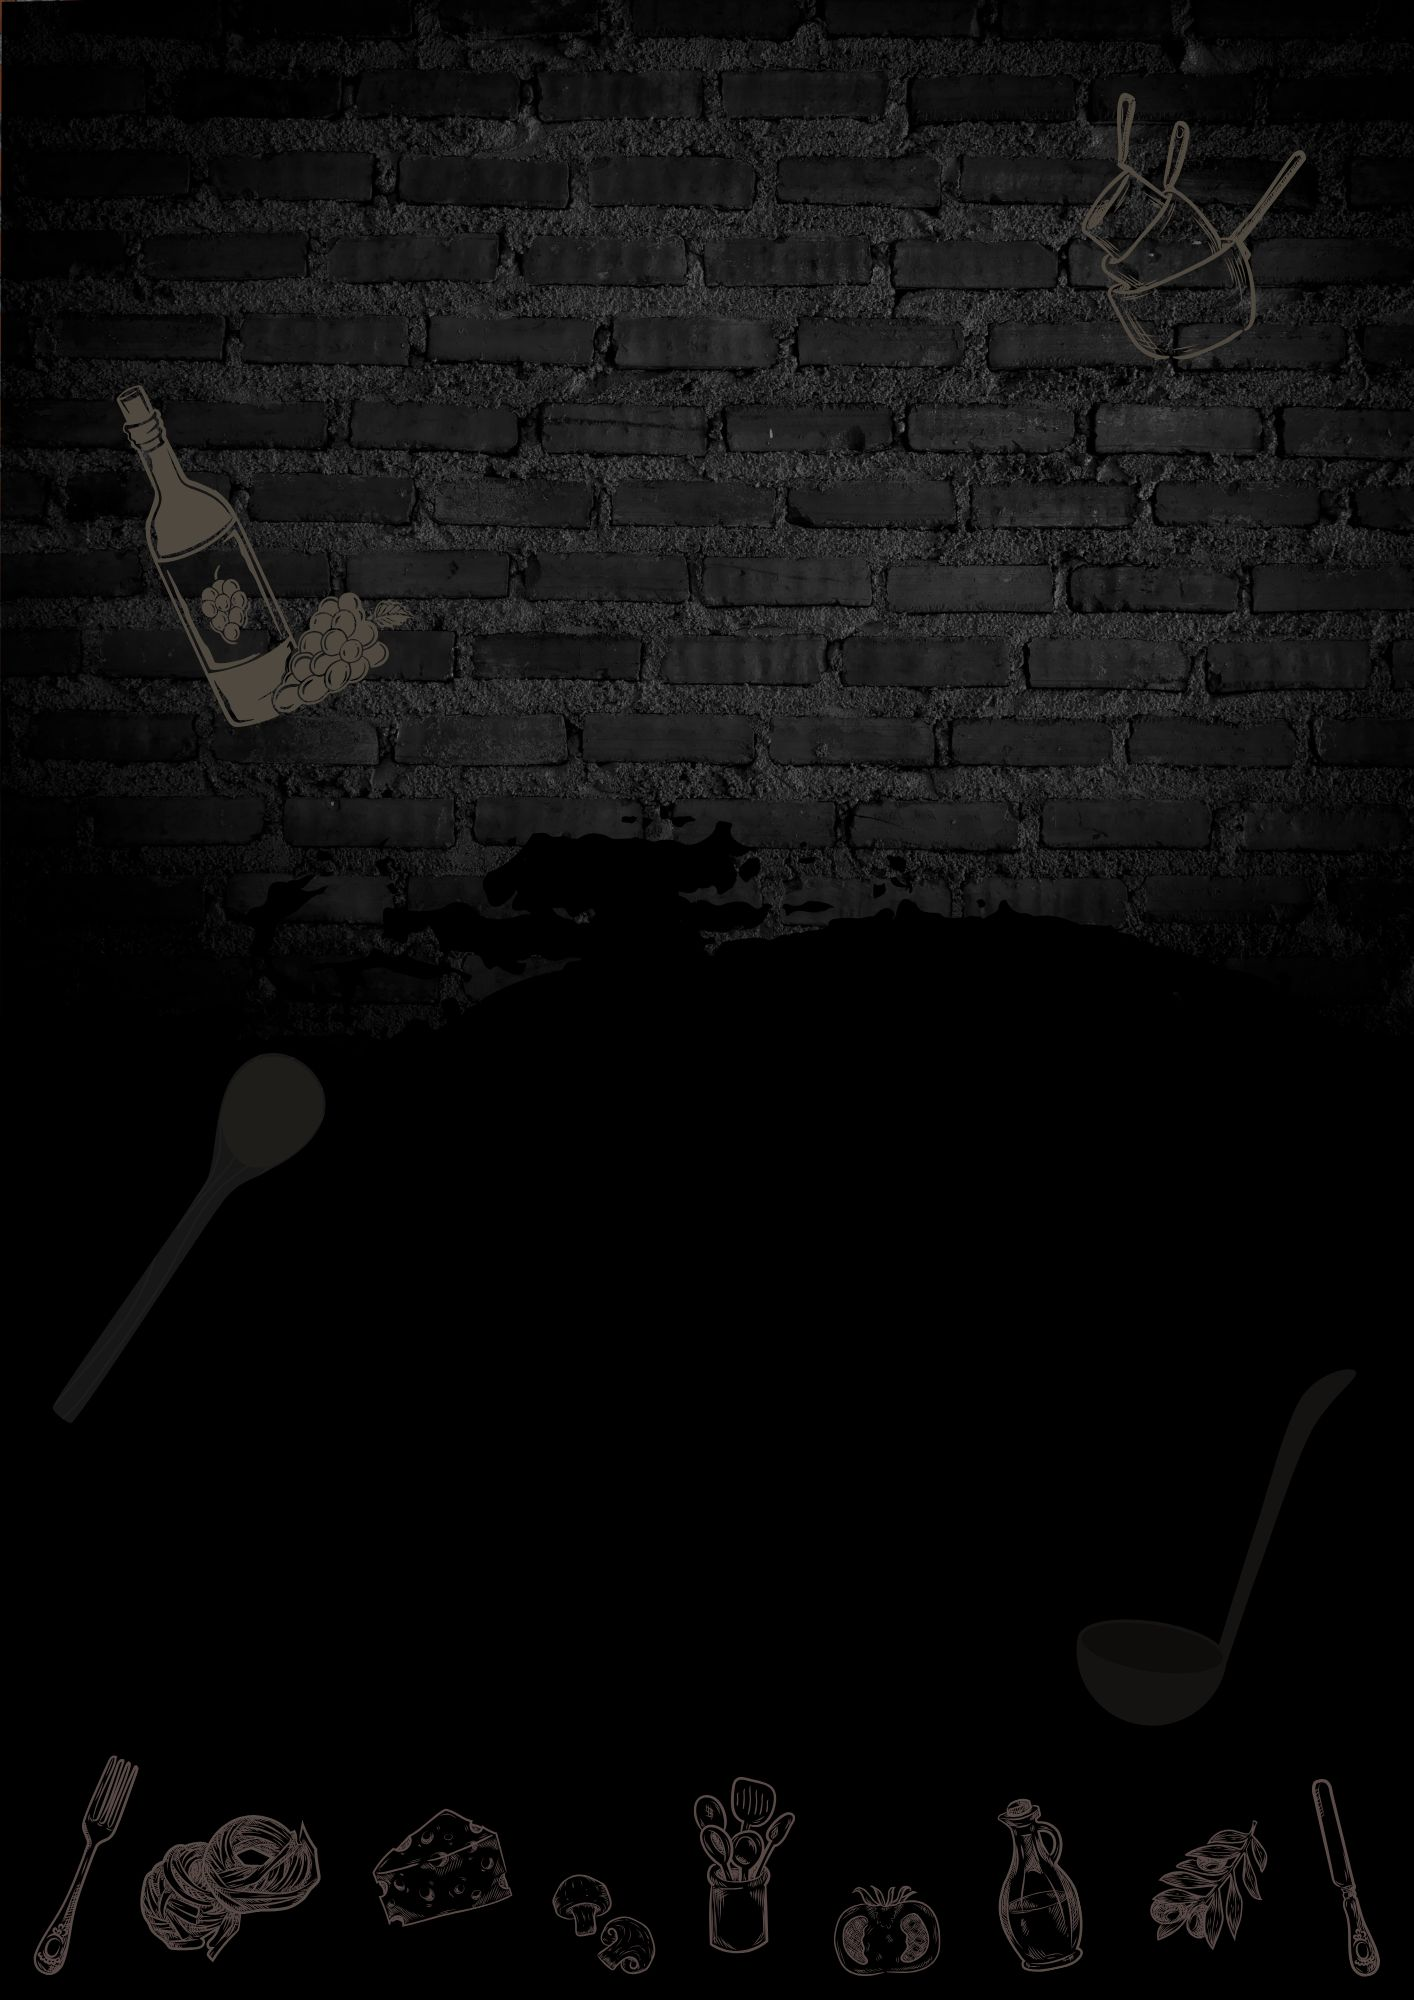
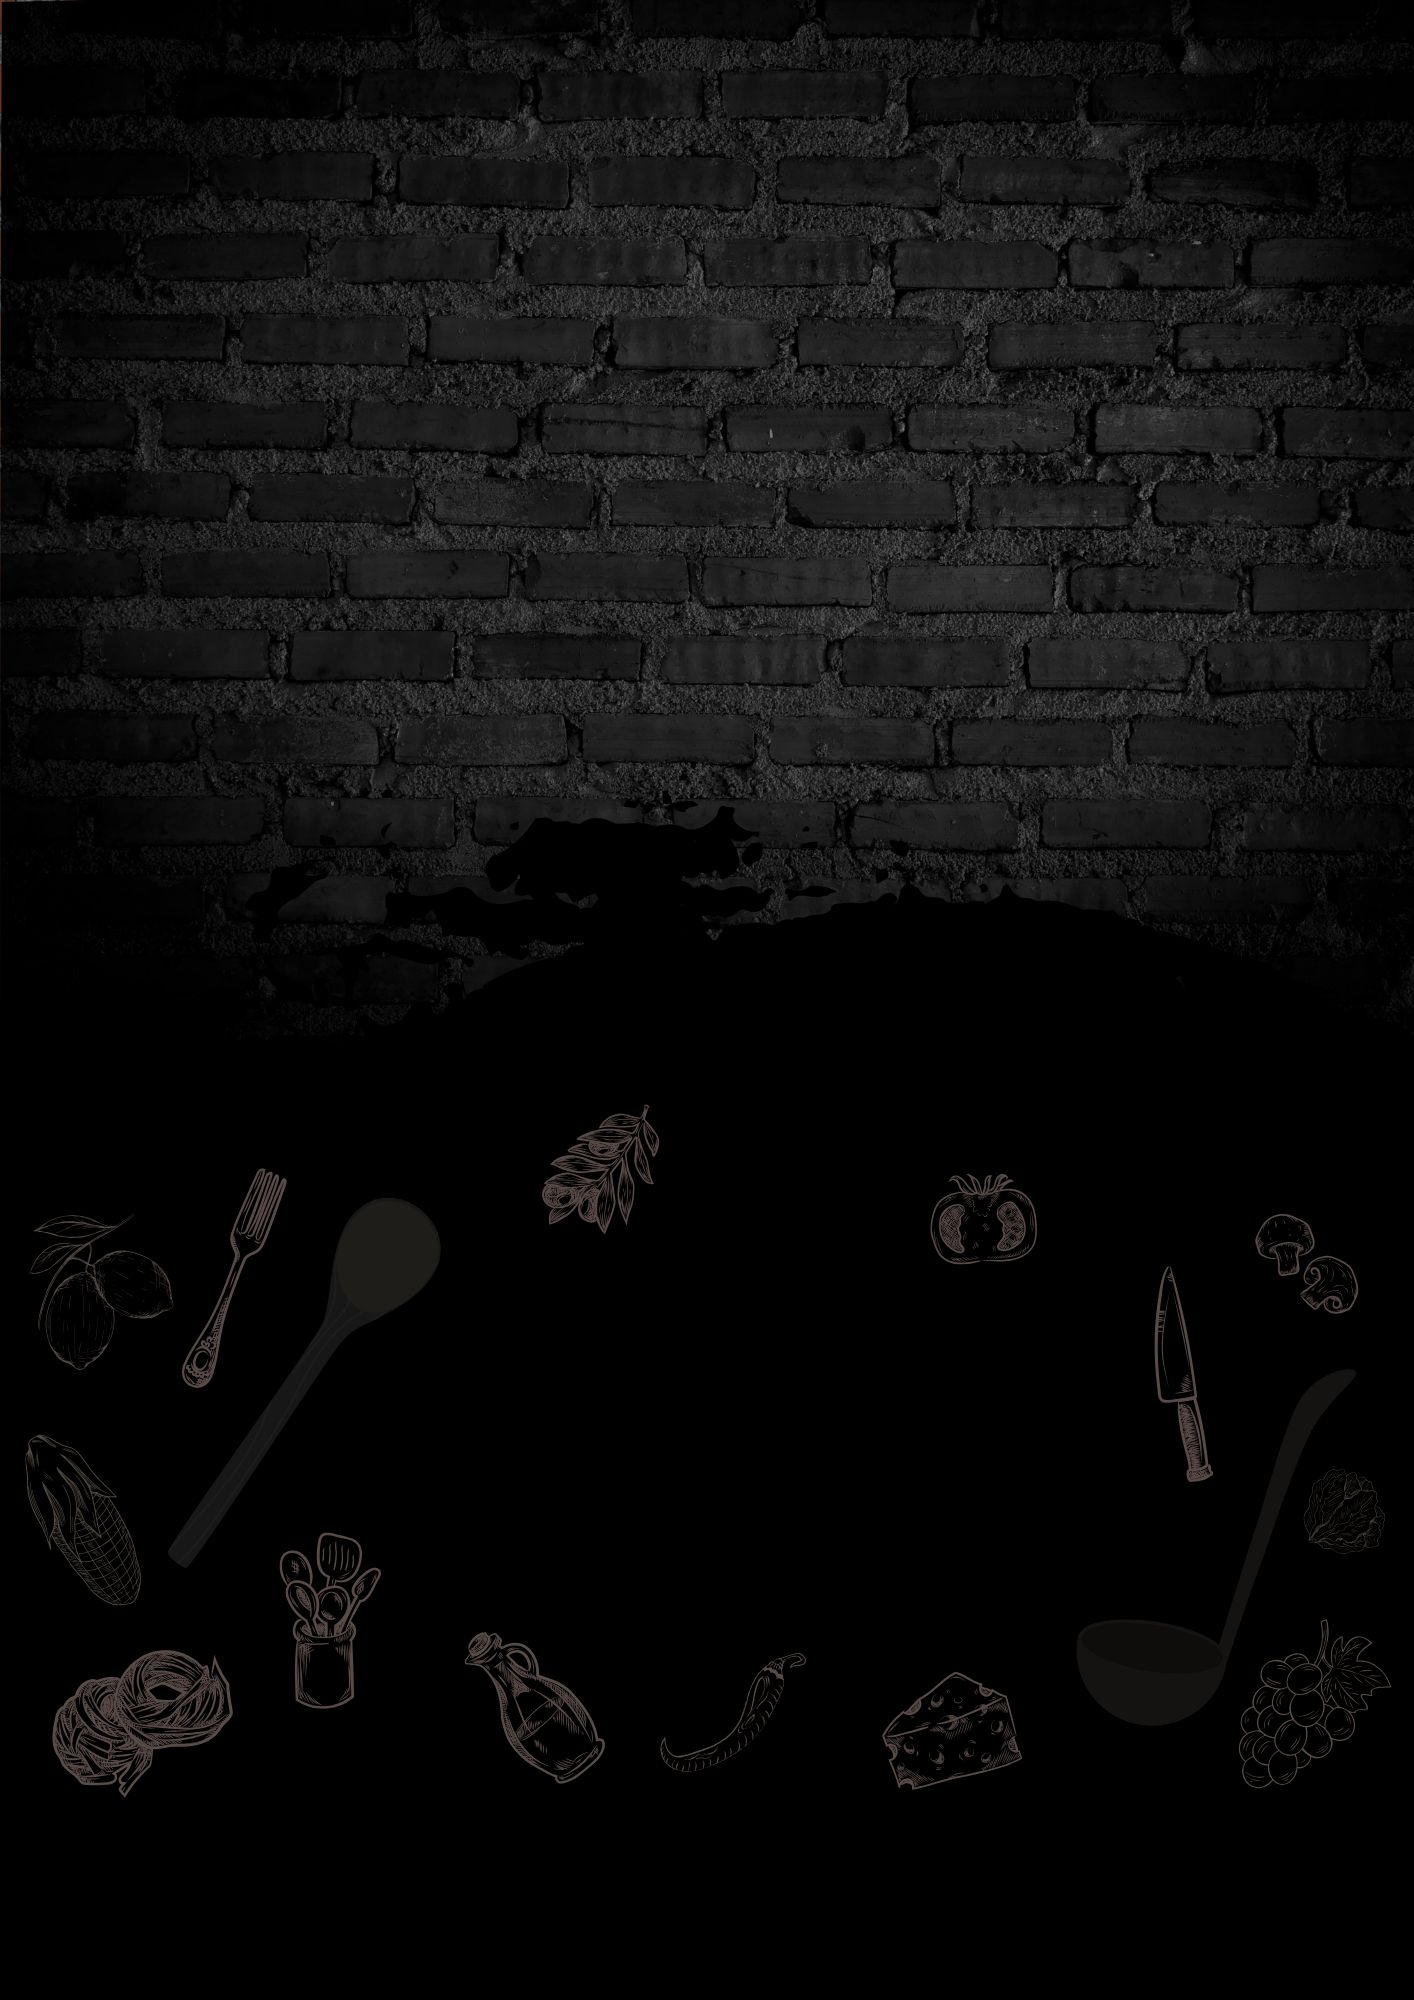
Add files via upload

diff --git a/productos.html b/productos.html
@@ -1,0 +1,154 @@
+<!doctype html>
+<html lang="en">
+  <head>
+    <meta charset="UTF-8" />
+
+    <link rel="stylesheet" href="estilos.css">
+/*teko*/
+    <link rel="preconnect" href="https://fonts.googleapis.com">
+    <link rel="preconnect" href="https://fonts.gstatic.com" crossorigin>
+    <link href="https://fonts.googleapis.com/css2?family=Quantico:ital,wght@0,400;0,700;1,400;1,700&family=Science+Gothic:wght@100..900&family=Teko:wght@300..700&display=swap" rel="stylesheet">
+/*Nunito Sans*/
+    <link rel="preconnect" href="https://fonts.googleapis.com">
+    <link rel="preconnect" href="https://fonts.gstatic.com" crossorigin>
+    <link href="https://fonts.googleapis.com/css2?family=Nunito+Sans:ital,opsz,wght@0,6..12,200..1000;1,6..12,200..1000&family=Quantico:ital,wght@0,400;0,700;1,400;1,700&family=Science+Gothic:wght@100..900&family=Teko:wght@300..700&display=swap" rel="stylesheet">
+    
+    <meta name="viewport" content="width=device-width, initial-scale=1.0" />
+      <link rel="icon" href="public/iconoBarra.png" type="image/png">
+    <title>Sabores de la Tierra</title>
+  </head>
+  <body class="productos">
+    <div id="root"></div>
+    <script type="module" src="/src/main.jsx"></script>
+
+        <nav class="navbar">
+
+    <div class="logo">
+      <img src="public/iconoBarra.png" alt="Logo">
+    </div>
+
+    <!--navegador-->
+    <ul class="nav-links">
+      <li><a href="index.html">INICIO</a></li>
+      <li><a href="productos.html">PRODUCTOS</a></li>
+      <li><a href="contacto.html">CONTACTO</a></li>
+      
+    </ul>
+  </nav>
+<main>
+<!--------------- menu---------------------->
+  <section class="menu">
+
+
+    <h2><u>Especiales de la Casa</u></h2>
+    <div class="cards">
+      <div class="card">
+        <img src="public/asado.jpg" alt="Asado de tira">
+        <h3>Asado de Tira</h3>
+        <p>Corte argentino a la parrilla con chimichurri.</p>
+        <span class="precio"><em>$45.000</em></span>
+      </div>
+      <div class="card">
+        <img src="public/cordero.jpg" alt="Cordero patagónico">
+        <h3>Cordero Patagónico</h3>
+        <p>Cocción lenta al horno de barro con vegetales.</p>
+        <span class="precio"><em>$35.000</em></span>
+      </div>
+    </div>
+
+
+    <h2><u>Comidas</u></h2>
+    <div class="cards">
+      <div class="card">
+        <img src="public/empanadas.jpg" alt="Empanadas criollas">
+        <h3>Empanadas Criollas</h3>
+        <p>Rellenas de carne cortada a cuchillo y especias.</p>
+        <span class="precio"><em>$1.200 c/u</em></span>
+      </div>
+      <div class="card">
+        <img src="public/milanesa.jpg" alt="Milanesa con puré">
+        <h3>Milanesa con Puré</h3>
+        <p>Clásica de ternera, crocante y abundante.</p>
+        <span class="precio"><em>$23.200</em></span>
+      </div>
+      <div class="card">
+        <img src="public/trucha.jpg" alt="Trucha grillada">
+        <h3>Trucha Grillada</h3>
+        <p>Con hierbas frescas y ensalada de estación.</p>
+        <span class="precio"><em>$12.500</em></span>
+      </div>
+      <div class="card">
+        <img src="public/locro.jpg" alt="Locro">
+        <h3>Locro tradicional</h3>
+        <p>Guiso de maíz, zapallo y carnes, ideal para días festivos.</p>
+        <span class="precio"><em>$25.200</em></span>
+      </div>
+      <div class="card">
+        <img src="public/provoleta.jpg" alt="Provoleta">
+        <h3>Provoleta a la parrilla</h3>
+        <p>Delicioso queso fundido con orégano y tomate seco.</p>
+        <span class="precio"><em>$13.500</em></span>
+      </div>
+      <div class="card">
+        <img src="public/guiso.jpg" alt="Guiso">
+        <h3>Guiso de lentejas con chorizo colorado</h3>
+        <p>Contundente y lleno de sabor.</p>
+        <span class="precio"><em>$15.000</em></span>
+      </div>
+    </div>
+
+
+    <h2><u>Postres</u></h2>
+    <div class="cards">
+      <div class="card">
+        <img src="public/flan.jpg" alt="Flan casero">
+        <h3>Flan Casero</h3>
+        <p>Con dulce de leche artesanal.</p>
+        <span class="precio"><em>$9.200</em></span>
+      </div>
+      <div class="card">
+        <img src="public/chocotorta.jpg" alt="Chocotorta">
+        <h3>Chocotorta</h3>
+        <p>Postre argentino con galletas y crema.</p>
+        <span class="precio"><em>$8.500</em></span>
+      </div>
+      <div class="card">
+        <img src="public/helado.jpg" alt="Helado artesanal">
+        <h3>Helado Artesanal</h3>
+        <p>Sabores de la tierra, cremoso y fresco.</p>
+        <span class="precio"><em>$6.800</em></span>
+      </div>
+    </div>
+
+
+    <h2><u>Vinos</u></h2>
+    <div class="cards">
+      <div class="card">
+        <img src="public/vino2021.jpg" alt="Malbec2021">
+        <h3>Malbec 2021</h3>
+        <p>Altos Las Hormigas Malbec Paraje Altamira 2021.</p>
+        <span class="precio"><em>$73.900</em></span>
+      </div>
+      <div class="card">
+        <img src="public/vino2022.jpg" alt="Malbec2022">
+        <h3>Malbec 2022</h3>
+        <p>Zuccardi Finca Piedra Infinita Supercal Malbec 2022.</p>
+        <span class="precio"><em>$419.738</em></span>
+      </div>
+      <div class="card">
+        <img src="public/Elenemigo.jpg" alt="Elenemigo">
+        <h3>El Enemigo</h3>
+        <p>El Enemigo Gran Enemigo Single Vineyard 2021.</p>
+        <span class="precio"><em>$90.000</em></span>
+      </div>
+  </section>
+
+</main>
+
+<footer> 
+  <div class="abajo">
+    <p>© 2026 Sabores de la Tierra | Todos los derechos reservados</p>
+    <p>Bahía Blanca, Buenos Aires, Argentina</p></div>
+</footer>
+
+  </body>

diff --git a/contacto.html b/contacto.html
@@ -1,0 +1,104 @@
+<!doctype html>
+<html lang="en">
+  <head>
+    <meta charset="UTF-8" />
+    <link rel="stylesheet" href="estilos.css">
+/*teko*/
+    <link rel="preconnect" href="https://fonts.googleapis.com">
+    <link rel="preconnect" href="https://fonts.gstatic.com" crossorigin>
+    <link href="https://fonts.googleapis.com/css2?family=Quantico:ital,wght@0,400;0,700;1,400;1,700&family=Science+Gothic:wght@100..900&family=Teko:wght@300..700&display=swap" rel="stylesheet">
+/*Nunito Sans*/
+    <link rel="preconnect" href="https://fonts.googleapis.com">
+    <link rel="preconnect" href="https://fonts.gstatic.com" crossorigin>
+    <link href="https://fonts.googleapis.com/css2?family=Nunito+Sans:ital,opsz,wght@0,6..12,200..1000;1,6..12,200..1000&family=Quantico:ital,wght@0,400;0,700;1,400;1,700&family=Science+Gothic:wght@100..900&family=Teko:wght@300..700&display=swap" rel="stylesheet">
+    
+    <meta name="viewport" content="width=device-width, initial-scale=1.0" />
+      <link rel="icon" href="public/iconoBarra.png" type="image/png">
+    <title>Sabores de la Tierra</title>
+  </head>
+  <body class="contacto">
+    <div id="root"></div>
+    <script type="module" src="/src/main.jsx"></script>
+
+        <nav class="navbar">
+
+    <div class="logo">
+      <img src="public/iconoBarra.png" alt="Logo">
+    </div>
+
+    <!--navegador-->
+    <ul class="nav-links">
+      <li><a href="index.html">INICIO</a></li>
+      <li><a href="productos.html">PRODUCTOS</a></li>
+      <li><a href="contacto.html">CONTACTO</a></li>
+      <li class="historia"><a href="#historia">NUESTRA HISTORIA</a></li>
+      
+    </ul>
+  </nav>
+
+<main>
+  <!-- parte de abajo-->
+<article>
+    <div id="historia" class="carousel">
+  <h2>Nuestra Historia</h2>
+  
+  <div class="slide active">
+    <p>“Sabores de la Tierra” nació de un sueño sencillo: 
+      recuperar la esencia de las comidas compartidas en torno al fuego. 
+      Todo comenzó en una antigua casona de madera, donde las reuniones 
+      familiares se llenaban de aromas intensos, vinos generosos y carnes 
+      condimentadas con esmero.</p>
+  </div>
+  <div class="slide">
+    <p>Lo que empezó como encuentros entre amigos se transformó en un 
+      proyecto más grande: abrir las puertas de un lugar donde cada visitante 
+      pudiera sentir la calidez de lo rústico y la fuerza de lo auténtico. 
+      Inspirados por la tradición y el respeto a los sabores de nuestra tierra, 
+      levantamos un espacio que honra lo natural, lo artesanal y lo verdadero.</p>
+  </div>
+  <div class="slide">
+    <p>Hoy, cada plato que servimos cuenta esa historia: la de un origen humilde, 
+      una pasión por la cocina y un compromiso con ofrecer experiencias que nacen 
+      de la tierra y se disfrutan en el alma.</p>
+  </div>
+
+  <!-- botones para cambiar img-->
+  
+  <button class="prev">◀︎</button><button class="next">▶︎</button>
+</div>
+<script>
+  const slides = document.querySelectorAll(".slide"); //busca todos los slide y los guarda en una constante
+  let currentIndex = 0; //empi9eza por la primer dispositiva
+
+  function showSlide(index) {
+    slides.forEach((slide, i) => { //recorre las dispositivas
+      slide.classList.toggle("active", i === index);
+    });
+  }
+
+  document.querySelector(".next").addEventListener("click", () => { //boton
+    currentIndex = (currentIndex + 1) % slides.length;
+    showSlide(currentIndex);
+  });
+
+  document.querySelector(".prev").addEventListener("click", () => { //boton
+    currentIndex = (currentIndex - 1 + slides.length) % slides.length;
+    showSlide(currentIndex);
+  });
+
+ 
+  setInterval(() => { 
+    currentIndex = (currentIndex + 1) % slides.length;
+    showSlide(currentIndex);
+  }, 8000);// Cambio automatico cada 8 segundos
+</script>
+</article>
+
+</main>
+
+<footer> 
+  <div class="abajo">
+    <p>© 2026 Sabores de la Tierra | Todos los derechos reservados</p>
+    <p>Bahía Blanca, Buenos Aires, Argentina</p></div>
+</footer>
+  </body>

diff --git a/index.html b/index.html
@@ -4,11 +4,11 @@
     <meta charset="UTF-8" />
     <link rel="icon" type="image/svg+xml" href="/favicon.svg" />
     <link rel="stylesheet" href="estilos.css">
-/*teko*/
+<!-- teko -->
     <link rel="preconnect" href="https://fonts.googleapis.com">
     <link rel="preconnect" href="https://fonts.gstatic.com" crossorigin>
     <link href="https://fonts.googleapis.com/css2?family=Quantico:ital,wght@0,400;0,700;1,400;1,700&family=Science+Gothic:wght@100..900&family=Teko:wght@300..700&display=swap" rel="stylesheet">
-/*Nunito Sans*/
+<!-- Nunito Sans -->
     <link rel="preconnect" href="https://fonts.googleapis.com">
     <link rel="preconnect" href="https://fonts.gstatic.com" crossorigin>
     <link href="https://fonts.googleapis.com/css2?family=Nunito+Sans:ital,opsz,wght@0,6..12,200..1000;1,6..12,200..1000&family=Quantico:ital,wght@0,400;0,700;1,400;1,700&family=Science+Gothic:wght@100..900&family=Teko:wght@300..700&display=swap" rel="stylesheet">
@@ -17,7 +17,7 @@
       <link rel="icon" href="public/iconoBarra.png" type="image/png">
     <title>Sabores de la Tierra</title>
   </head>
-  <body>
+  <body class="index">
     <div id="root"></div>
     <script type="module" src="/src/main.jsx"></script>
 
@@ -29,12 +29,12 @@
 
     <!--navegador-->
     <ul class="nav-links">
-      <li><a href="index.html">INICIO</a></li>
-      <li><a href="productos.html">PRODUCTOS</a></li>
+     <li><a href="index.html">INICIO</a></li>
+     <li><a href="productos.html">PRODUCTOS</a></li>
       <li><a href="contacto.html">CONTACTO</a></li>
-      <div class="historia">
-        <li><a href="#historia">NUESTRA HISTORIA</a></li>
-      </div>
+      <li class="historia"><a href="#historia">NUESTRA HISTORIA</a></li>
+</ul>
+
       
     </ul>
   </nav>
@@ -46,11 +46,12 @@
     culinaria que celebra la calidez de la tierra
     y el placer de compartir"</p>
     
+    
 <!-- parte de abajo-->
-<footer> 
+<article>
     <div id="historia" class="carousel">
   <h2>Nuestra Historia</h2>
-  <button class="prev">◀︎</button>
+  
   <div class="slide active">
     <p>“Sabores de la Tierra” nació de un sueño sencillo: 
       recuperar la esencia de las comidas compartidas en torno al fuego. 
@@ -73,41 +74,47 @@
 
   <!-- botones para cambiar img-->
   
-  <button class="next">▶︎</button>
-
+  <button class="prev">◀︎</button><button class="next">▶︎</button>
 </div>
 
 
 <script>
-  const slides = document.querySelectorAll(".slide");
-  let currentIndex = 0;
+  const slides = document.querySelectorAll(".slide"); //busca todos los slide y los guarda en una constante
+  let currentIndex = 0; //empi9eza por la primer dispositiva
 
   function showSlide(index) {
-    slides.forEach((slide, i) => {
+    slides.forEach((slide, i) => { //recorre las dispositivas
       slide.classList.toggle("active", i === index);
     });
   }
 
-  document.querySelector(".next").addEventListener("click", () => {
+  document.querySelector(".next").addEventListener("click", () => { //boton
     currentIndex = (currentIndex + 1) % slides.length;
     showSlide(currentIndex);
   });
 
-  document.querySelector(".prev").addEventListener("click", () => {
+  document.querySelector(".prev").addEventListener("click", () => { //boton
     currentIndex = (currentIndex - 1 + slides.length) % slides.length;
     showSlide(currentIndex);
   });
 
-  // Cambio automático cada 5 segundos
-  setInterval(() => {
+ 
+  setInterval(() => { 
     currentIndex = (currentIndex + 1) % slides.length;
     showSlide(currentIndex);
-  }, 5000);
+  }, 8000);// Cambio automatico cada 8 segundos
 </script>
-</footer>
+
+</article>
 </main>
 
 
+
+<footer> 
+  <div class="abajo">
+    <p>© 2026 Sabores de la Tierra | Todos los derechos reservados</p>
+    <p>Bahía Blanca, Buenos Aires, Argentina</p></div>
+</footer>
     
   </body>
 </html>